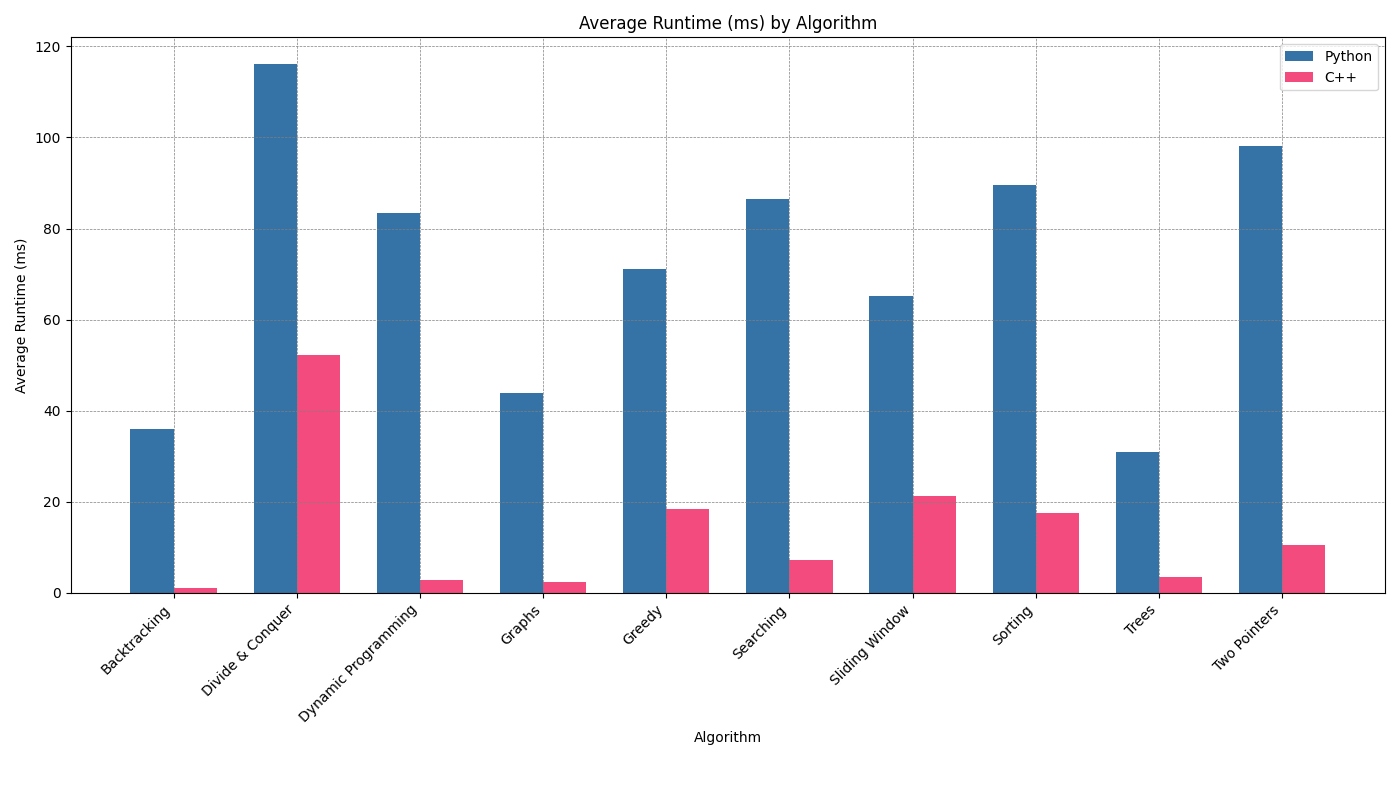
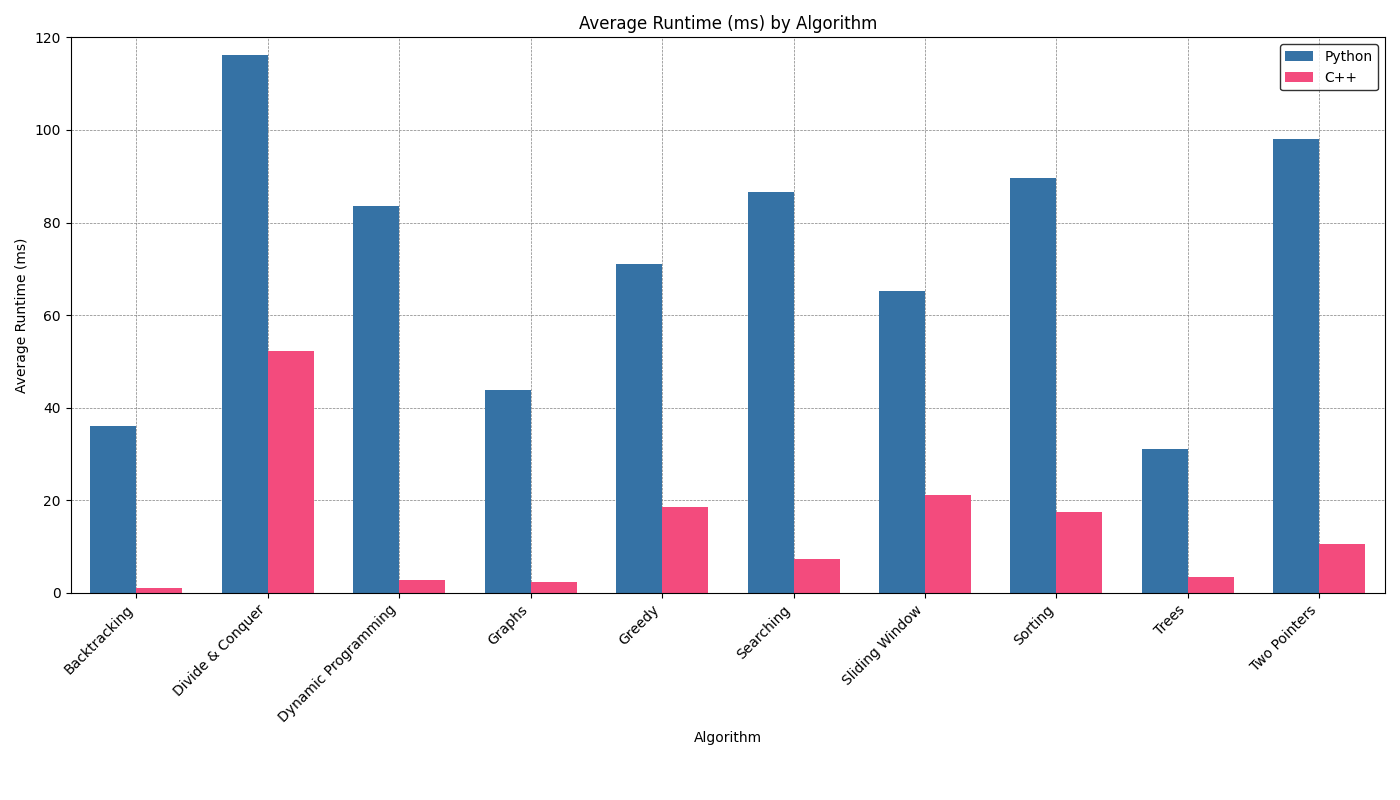
update visualizations

diff --git a/visualization.py b/visualization.py
@@ -17,29 +17,59 @@ memory_data = pd.read_excel(
 )
 
 def create_bar_graph(x, y1, y2, labels, title, y_label, filename, note, y_ticks, include_note):
-    plt.figure(figsize=(14, 8))
+    fig = plt.figure(figsize=(14, 8), dpi=100, facecolor='white')
+    ax = fig.add_subplot(111)
+    ax.set_facecolor('white')
     
     bar_width = 0.35
     index = range(len(x))
-    
-    plt.bar(index, y1, bar_width, label='Python', color='#3572A5')
-    plt.bar([i + bar_width for i in index], y2, bar_width, label='C++', color='#F34B7D')
+    x_ticks = [i + bar_width / 2 for i in index]
 
-    plt.xlabel(labels['x_label'])
-    plt.ylabel(y_label)
-    plt.title(title)
-    plt.xticks([i + bar_width / 2 for i in index], x, rotation=45, ha="right")
-    plt.yticks(y_ticks)
-    plt.legend(loc='upper right')
-    
-    plt.grid(axis='both', linestyle='--', linewidth=0.5, color='gray', alpha=1.0)
+    full_y_ticks = list(y_ticks)
+    if len(full_y_ticks) < 2:
+        raise ValueError('y_ticks must contain at least two values')
 
-    plt.tight_layout(rect=[0, 0.05, 1, 1])
+    y_tick_interval = full_y_ticks[-1] - full_y_ticks[-2]
+    if y_tick_interval <= 0:
+        raise ValueError('y_ticks must be strictly increasing')
+
+    max_bar_value = max(max(y1), max(y2))
+    while full_y_ticks[-1] <= max_bar_value:
+        full_y_ticks.append(full_y_ticks[-1] + y_tick_interval)
+    
+    ax.bar(index, y1, bar_width, label='Python', color='#3572A5', alpha=1.0, zorder=2)
+    ax.bar([i + bar_width for i in index], y2, bar_width, label='C++', color='#F34B7D', alpha=1.0, zorder=2)
+
+    ax.set_xlabel(labels['x_label'], color='black')
+    ax.set_ylabel(y_label, color='black')
+    ax.set_title(title, color='black')
+    ax.set_xticks(x_ticks, x, rotation=45, ha="right")
+    ax.set_xlim(x_ticks[0] - 0.5, x_ticks[-1] + 0.5)
+    ax.set_yticks(full_y_ticks)
+    ax.set_ylim(full_y_ticks[0], full_y_ticks[-1])
+    ax.tick_params(colors='black')
+    ax.legend(loc='upper right', facecolor='white', edgecolor='black', labelcolor='black')
+    
+    # Keep every grid line at one opacity and behind the opaque bars.
+    ax.set_axisbelow(True)
+    ax.grid(
+        axis='both',
+        color='gray',
+        linestyle='--',
+        linewidth=0.5,
+        alpha=1.0
+    )
+
+    for spine in ax.spines.values():
+        spine.set_color('black')
+        spine.set_zorder(4)
+
+    fig.tight_layout(rect=[0, 0.05, 1, 1])
     if include_note:
-        plt.figtext(0.5, 0.01, note, wrap=True, horizontalalignment='center', fontsize=8)
+        fig.text(0.5, 0.01, note, wrap=True, horizontalalignment='center', fontsize=8, color='black')
     
-    plt.savefig(filename)
-    plt.close()
+    fig.savefig(filename, facecolor=fig.get_facecolor(), dpi=100, transparent=False)
+    plt.close(fig)
 
 problems = [39, 46, 78, '53*', 169, 240, 70, 198, '300*', '200*', 733, 994, '55*', 406, '452*', 33, 374, 704, 3, 438, 567, 56, 57, '912A*', '912B*', 94, 144, 230, '11*', '15*', 344]
 python_runtime_values = [runtime_data.iat[i, 5] for i in range(3, 64, 2)]
